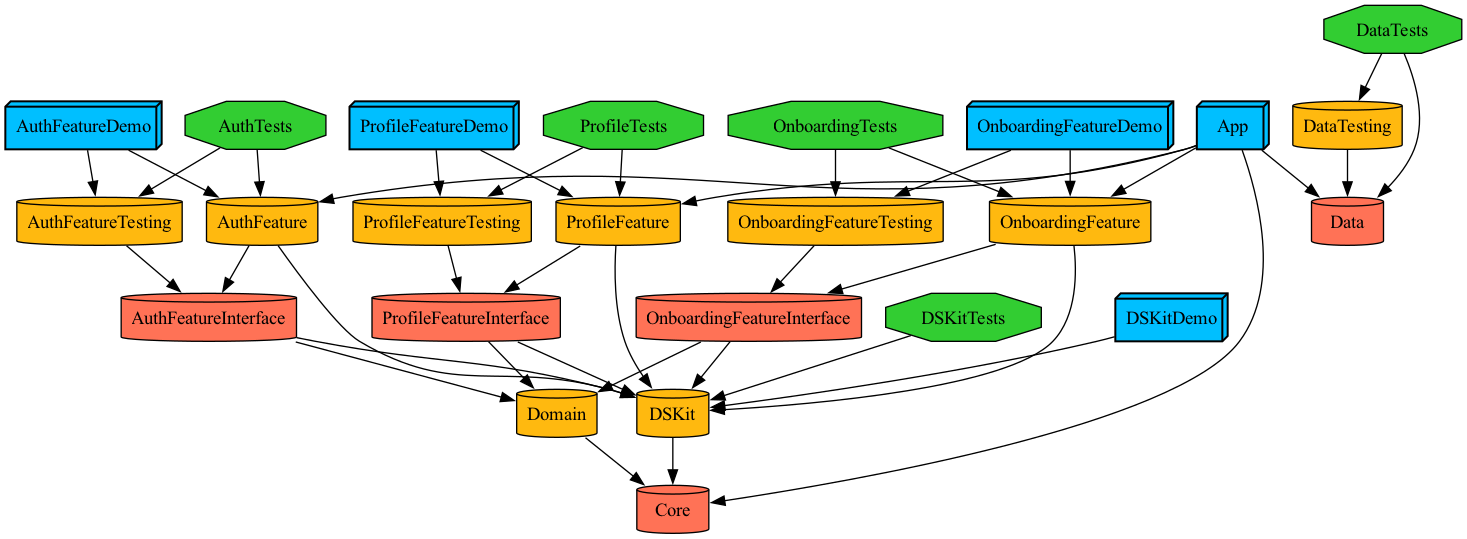
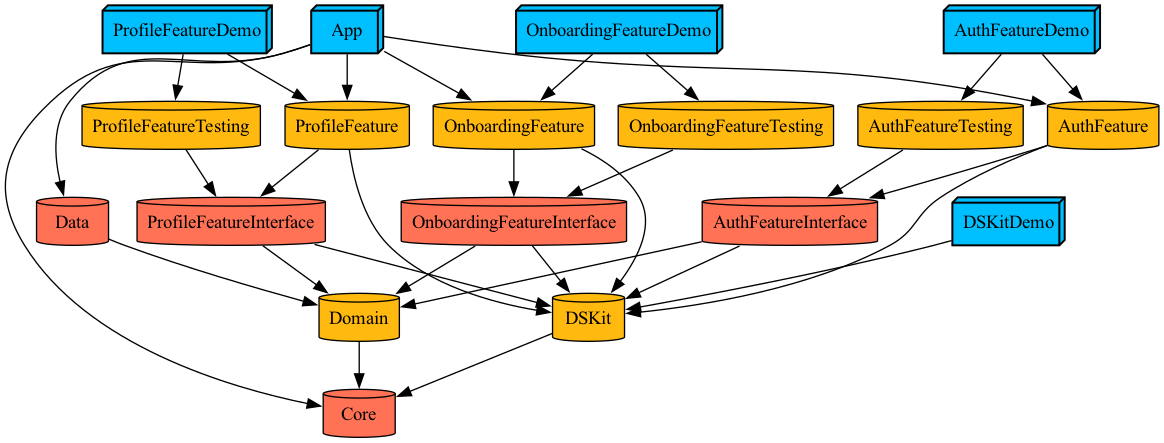
feat: Auth Demo 구현

diff --git a/Projects/Features/AuthFeature/Sources/Factory/AuthFeatureBuilder.swift b/Projects/Features/AuthFeature/Sources/Factory/AuthFeatureBuilder.swift
@@ -7,27 +7,26 @@
 
 import UIKit
 import AuthFeatureInterface
+import Domain
+import Core
 
 // MARK: - Creator(Factory Interface)
-protocol AuthFeatureBuildable {
+public protocol AuthFeatureBuildable {
     func makeSignIn() -> SignInPresentable
 }
 
 // MARK: - Concrete Creator
-final class AuthFeatureBuilder: AuthFeatureBuildable {
+public final class AuthFeatureBuilder: AuthFeatureBuildable {
     
-    private let authRepository: AuthRepositoryProtocol
+    public init() {}
     
-    public init(authRepository: AuthRepositoryProtocol) {
-        self.authRepository = authRepository
-    }
-    
-    func makeSignIn() -> SignInPresentable {
+    public func makeSignIn() -> SignInPresentable {
         
         // Domain
-        // let repository = AuthRepository()
-        let useCase = AuthUseCase(repository: authRepository)
-        let viewModel = AuthViewModel(useCase: useCase)
+        @Dependency var authUsecase: AuthUsecaseProtocol
+        
+        // ViewModel
+        let viewModel = AuthViewModel(useCase: authUsecase)
         
         // Scene
         let viewController = SignInViewController(viewModel: viewModel)

diff --git a/Projects/Data/Project.swift b/Projects/Data/Project.swift
@@ -13,7 +13,9 @@ let project = Project(
             deploymentTargets: .iOS("17.0"),
             sources: ["Sources/**"],
             resources: [],
-            dependencies: []
+            dependencies: [
+                .project(target: "Domain", path: "../Domain")
+            ]
         ),
 
         // MARK: - Unit Tests
@@ -26,22 +28,7 @@ let project = Project(
             sources: ["Tests/Sources/**"],
             resources: [],
             dependencies: [
-                .target(name: "Data"),
-                .target(name: "DataTesting")
-            ]
-        ),
-
-        // MARK: - Testing
-        .target(
-            name: "DataTesting",
-            destinations: .iOS,
-            product: .framework,
-            bundleId: "com.indextrown.Haruhancut.data.testing",
-            deploymentTargets: .iOS("17.0"),
-            sources: ["Testing/Sources/**"],
-            resources: [],
-            dependencies: [
-                .target(name: "Data"),
+                .target(name: "Data")
             ]
         ),
     ]

diff --git a/Projects/Features/AuthFeature/Sources/SignIn/SignInViewController.swift b/Projects/Features/AuthFeature/Sources/SignIn/SignInViewController.swift
@@ -1,0 +1,43 @@
+//
+//  SignInViewController.swift
+//  AuthFeature
+//
+//  Created by 김동현 on 1/12/26.
+//
+
+import UIKit
+
+final class SignInViewController: UIViewController {
+
+    private let viewModel: AuthViewModel
+
+    init(viewModel: AuthViewModel) {
+        self.viewModel = viewModel
+        super.init(nibName: nil, bundle: nil)
+        view.backgroundColor = .systemBackground
+        setupUI()
+    }
+
+    required init?(coder: NSCoder) {
+        fatalError("init(coder:) has not been implemented")
+    }
+    
+    private func setupUI() {
+        let label = UILabel()
+        label.text = "Auth Demo"
+        label.font = .systemFont(ofSize: 24, weight: .bold)
+        label.textAlignment = .center
+        label.translatesAutoresizingMaskIntoConstraints = false
+
+        view.addSubview(label)
+
+        NSLayoutConstraint.activate([
+            label.centerXAnchor.constraint(equalTo: view.centerXAnchor),
+            label.centerYAnchor.constraint(equalTo: view.centerYAnchor)
+        ])
+    }
+}
+
+
+
+

diff --git a/Projects/Features/AuthFeature/Demo/AppDelegate.swift b/Projects/Features/AuthFeature/Demo/AppDelegate.swift
@@ -6,6 +6,9 @@
 //
 
 import UIKit
+import Core
+import AuthFeatureInterface
+import Domain
 
 @main
 class AppDelegate: UIResponder, UIApplicationDelegate {
@@ -14,7 +17,13 @@ class AppDelegate: UIResponder, UIApplicationDelegate {
         _ application: UIApplication,
         didFinishLaunchingWithOptions launchOptions: [UIApplication.LaunchOptionsKey: Any]?
     ) -> Bool {
-        // Override point for customization after application launch.
+        let container = DIContainer.shared
+        
+        container.register(AuthRepositoryProtocol.self,
+                                    dependency: StubAuthRepositoryImpl())
+        
+        container.register(AuthUsecaseProtocol.self,
+                                    dependency: StubAuthUsecaseImpl())
         return true
     }
 

diff --git a/Projects/Features/AuthFeature/Demo/SceneDelegate.swift b/Projects/Features/AuthFeature/Demo/SceneDelegate.swift
@@ -6,6 +6,8 @@
 //
 
 import UIKit
+import AuthFeatureInterface
+import AuthFeature
 
 class SceneDelegate: UIResponder, UIWindowSceneDelegate {
 
@@ -23,9 +25,10 @@ class SceneDelegate: UIResponder, UIWindowSceneDelegate {
         let window = UIWindow(windowScene: windowScene)
 
         // 3. root view controller 설정
-        let rootViewController = MainViewController()
+        let builder = AuthFeatureBuilder()
+        let signIn = builder.makeSignIn()
 
-        window.rootViewController = rootViewController
+        window.rootViewController = signIn.vc
         self.window = window
         window.makeKeyAndVisible()
     }

diff --git a/Projects/Domain/Sources/Usecase/AuthUsecase.swift b/Projects/Domain/Sources/Usecase/AuthUsecase.swift
@@ -1,0 +1,25 @@
+//
+//  AuthUsecase.swift
+//  Domain
+//
+//  Created by 김동현 on 1/13/26.
+//
+
+import Foundation
+
+public protocol AuthUsecaseProtocol {
+    func signIn() async throws
+}
+
+public final class AuthUsecaseImpl: AuthUsecaseProtocol {
+    
+    private let authRepository: AuthRepositoryProtocol
+    
+    public init(authRepository: AuthRepositoryProtocol) {
+        self.authRepository = authRepository
+    }
+    
+    public func signIn() async throws {
+        
+    }
+}

diff --git a/Projects/App/Sources/Dependency/RegisterDependency.swift b/Projects/App/Sources/Dependency/RegisterDependency.swift
@@ -6,6 +6,8 @@
 //
 
 import Core
+import Data
+import Domain
 
 extension AppDelegate {
     var container: DIContainer {
@@ -13,6 +15,8 @@ extension AppDelegate {
     }
     
     func registerDependencies() {
-        let authRepository = AuthRepository()
+        let authRepository = AuthRepositoryImpl()
+        let authUseCase = AuthUsecaseImpl(authRepository: authRepository)
+        DIContainer.shared.register(AuthUsecaseProtocol.self, dependency: authUseCase)
     }
 }

diff --git a/Projects/App/Sources/AppDelegate.swift b/Projects/App/Sources/AppDelegate.swift
@@ -10,10 +10,10 @@ import UIKit
 @main
 class AppDelegate: UIResponder, UIApplicationDelegate {
 
-
-
     func application(_ application: UIApplication, didFinishLaunchingWithOptions launchOptions: [UIApplication.LaunchOptionsKey: Any]?) -> Bool {
-        // Override point for customization after application launch.
+        
+        // AppLifeCycle
+        registerDependencies()
         return true
     }
 

diff --git a/Projects/Features/AuthFeature/Sources/ViewModel/AuthViewModel.swift b/Projects/Features/AuthFeature/Sources/ViewModel/AuthViewModel.swift
@@ -7,18 +7,14 @@
 
 import UIKit
 import AuthFeatureInterface
+import Domain
 
 final class AuthViewModel: AuthViewModelType {
     var onAuthCompleted: (() -> Void)?
     
-    private let useCase: AuthUseCase
+    private let useCase: AuthUsecaseProtocol
     
-    init(useCase: AuthUseCase) {
+    init(useCase: AuthUsecaseProtocol) {
          self.useCase = useCase
      }
 }
-
-
-
-
-

diff --git a/Projects/Core/Sources/DIContainer/DIContainer.swift b/Projects/Core/Sources/DIContainer/DIContainer.swift
@@ -15,7 +15,7 @@ public final class DIContainer {
     private var dependencies: [String: Any] = [:]
     
     // 메서드로 의존성을 등록
-    func register<T>(_ type: T.Type, dependency: T) {
+    public func register<T>(_ type: T.Type, dependency: T) {
         let key = String(describing: type)
         dependencies[key] = dependency
     }

diff --git a/Projects/Domain/Project.swift b/Projects/Domain/Project.swift
@@ -10,6 +10,7 @@ let project = Project(
             destinations: .iOS,
             product: .framework,
             bundleId: "com.indextrown.Haruhancut.domain",
+            deploymentTargets: .iOS("17.0"),
             sources: ["Sources/**"],
             resources: [],
             dependencies: [

diff --git a/Projects/Data/Sources/RepositoryImpl/AuthRepositoryImpl.swift b/Projects/Data/Sources/RepositoryImpl/AuthRepositoryImpl.swift
@@ -1,0 +1,17 @@
+//
+//  AuthRepositoryImpl.swift
+//  Domain
+//
+//  Created by 김동현 on 1/12/26.
+//
+
+import Domain
+
+public final class AuthRepositoryImpl: AuthRepositoryProtocol {
+    
+    public init() {}
+    
+    public func signIn() async throws {
+        
+    }
+}
